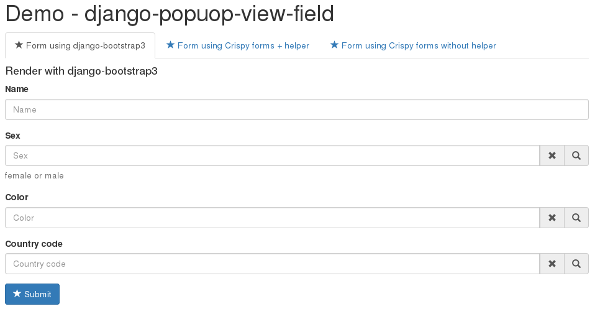
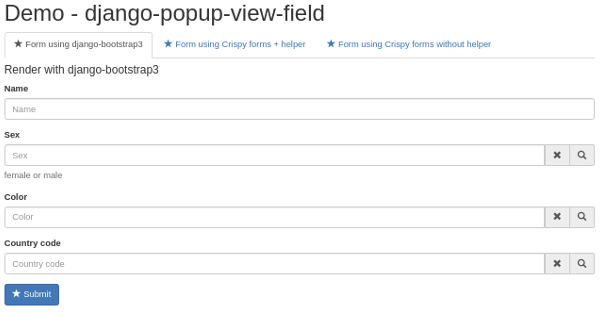
Added support for django 2.0, 2.1 and PopupViewModelField

diff --git a/demo/demo/templates/demo/index.html b/demo/demo/templates/demo/index.html
@@ -5,7 +5,7 @@
 
 {% block content %}
 
-    <h1> Demo - django-popuop-view-field </h1>
+    <h1> Demo - django-popup-view-field </h1>
 
     <div>
         <ul class="nav nav-tabs" role="tablist" id="tabs" data-toggle="tab">

diff --git a/django_popup_view_field/fields.py b/django_popup_view_field/fields.py
@@ -1,5 +1,6 @@
 import urllib
 
+from django.forms import ModelChoiceField
 from django.forms.fields import CharField
 from django.utils.translation import ugettext_lazy as _
 from django.views.generic import View
@@ -32,6 +33,42 @@ class PopupViewField(CharField):
             callback_data = urllib.parse.urlencode(callback_data)
 
         super(PopupViewField, self).__init__(
+            widget=PopupViewWidget(
+                view_class_name=view_class_name,
+                popup_dialog_title=popup_dialog_title,
+                callback_data=callback_data,
+                attrs=attrs
+            ),
+            *args,
+            **kwargs
+        )
+
+
+class PopupViewModelField(ModelChoiceField):
+
+    def __init__(self, view_class, queryset, attrs=None, *args, **kwargs):
+        """
+        view_class : View Class used to render content popup dialog
+        view_class must be subclass of django.views.generic.View
+        """
+
+        # Check view_class inherit from django View
+        if not issubclass(view_class, View):
+            raise PopupViewIsNotSubclassView()
+
+        view_class_name = view_class.__name__
+        popup_dialog_title = kwargs.pop("popup_dialog_title", _("Popup Dialog: Select value"))
+
+        callback_data = kwargs.pop("callback_data", {})
+        if not isinstance(callback_data, dict):
+            raise AttributeError("callback_data argument must be a dictionary")
+        try:
+            callback_data = urllib.urlencode(callback_data)
+        except AttributeError:
+            callback_data = urllib.parse.urlencode(callback_data)
+
+        super(PopupViewModelField, self).__init__(
+            queryset,
             widget=PopupViewWidget(
                 view_class_name=view_class_name,
                 popup_dialog_title=popup_dialog_title,

diff --git a/django_popup_view_field/widgets.py b/django_popup_view_field/widgets.py
@@ -1,10 +1,14 @@
 import django
 from django import forms
-from django.core.urlresolvers import reverse
 from django.forms.utils import flatatt
 from django.template import loader
 from django.utils.encoding import force_text
 from django.utils.html import format_html
+
+try:
+    from django.urls import reverse
+except ImportError:
+    from django.core.urlresolvers import reverse
 
 
 class PopupViewWidget(forms.TextInput):

diff --git a/django_popup_view_field/__init__.py b/django_popup_view_field/__init__.py
@@ -1,2 +1,2 @@
-VERSION = (0, 4, 1)
+VERSION = (0, 5, 0)
 __version__ = ".".join(str(i) for i in VERSION)

diff --git a/README.rst b/README.rst
@@ -22,7 +22,7 @@ You can create normal django View and load this view in dialog for form field.
 - Support:
 
     * Python: 2.7, 3.6
-    * Django: 1.8, 1.9, 1.10, 1.11
+    * Django: 1.8, 1.9, 1.10, 1.11, 2.0, 2.1
     * django-crispy-forms
     * django-bootstrap3
 
@@ -62,7 +62,7 @@ Screenshots
 - Example: Form with several popup-view-fieds
 
 .. image:: https://raw.githubusercontent.com/djk2/django-popup-view-field/master/doc/static/scr1.png
-    :alt: Form with django-popup-view-fieds
+    :alt: Form with django-popup-view-fields
 
 - Example: Dialog for select sex
 

diff --git a/CHANGELOG.md b/CHANGELOG.md
@@ -1,5 +1,11 @@
 # CHANGELOG for django-popup-view-field
 
+## 0.5.0 (2019-04-17)
+
+* Support for Django 2.0 and 2.1
+
+* Added PopupViewModelField that returns a model instance instead of text
+
 ## 0.4.1 (2019-02-23)
 
 * Added `attrs` attribute to PopupViewField which is passed to the Widget
